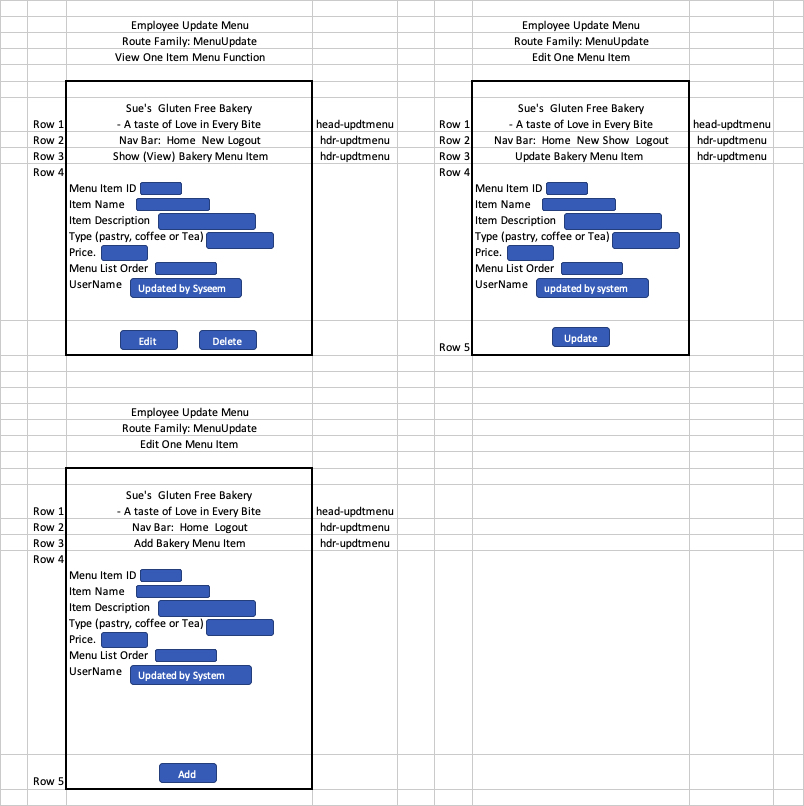
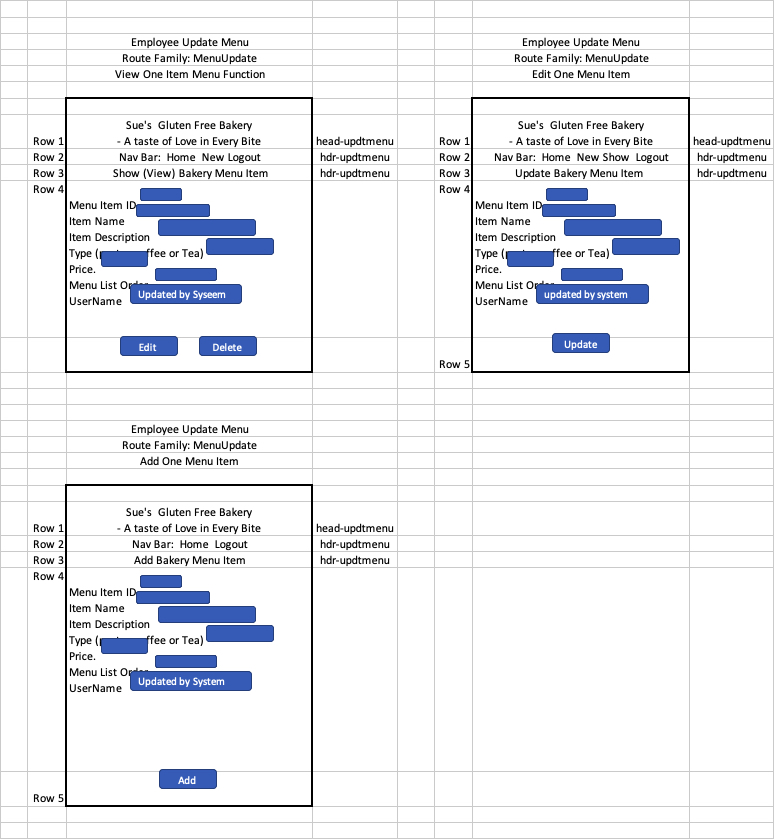
add updated wireframe page 2 and user signup

diff --git a/models/user.js b/models/user.js
@@ -15,7 +15,8 @@ const userSchema = new Schema({
     password: {type: String, required: true},
     firstName: {type: String, required: true},
     lastName: {type: String, required: true},
-    email: {type: String, required: true}
+    email: {type: String, required: true},
+    cellPhone: {type: Number, required: true}
 });
 
 // make User mdoel
